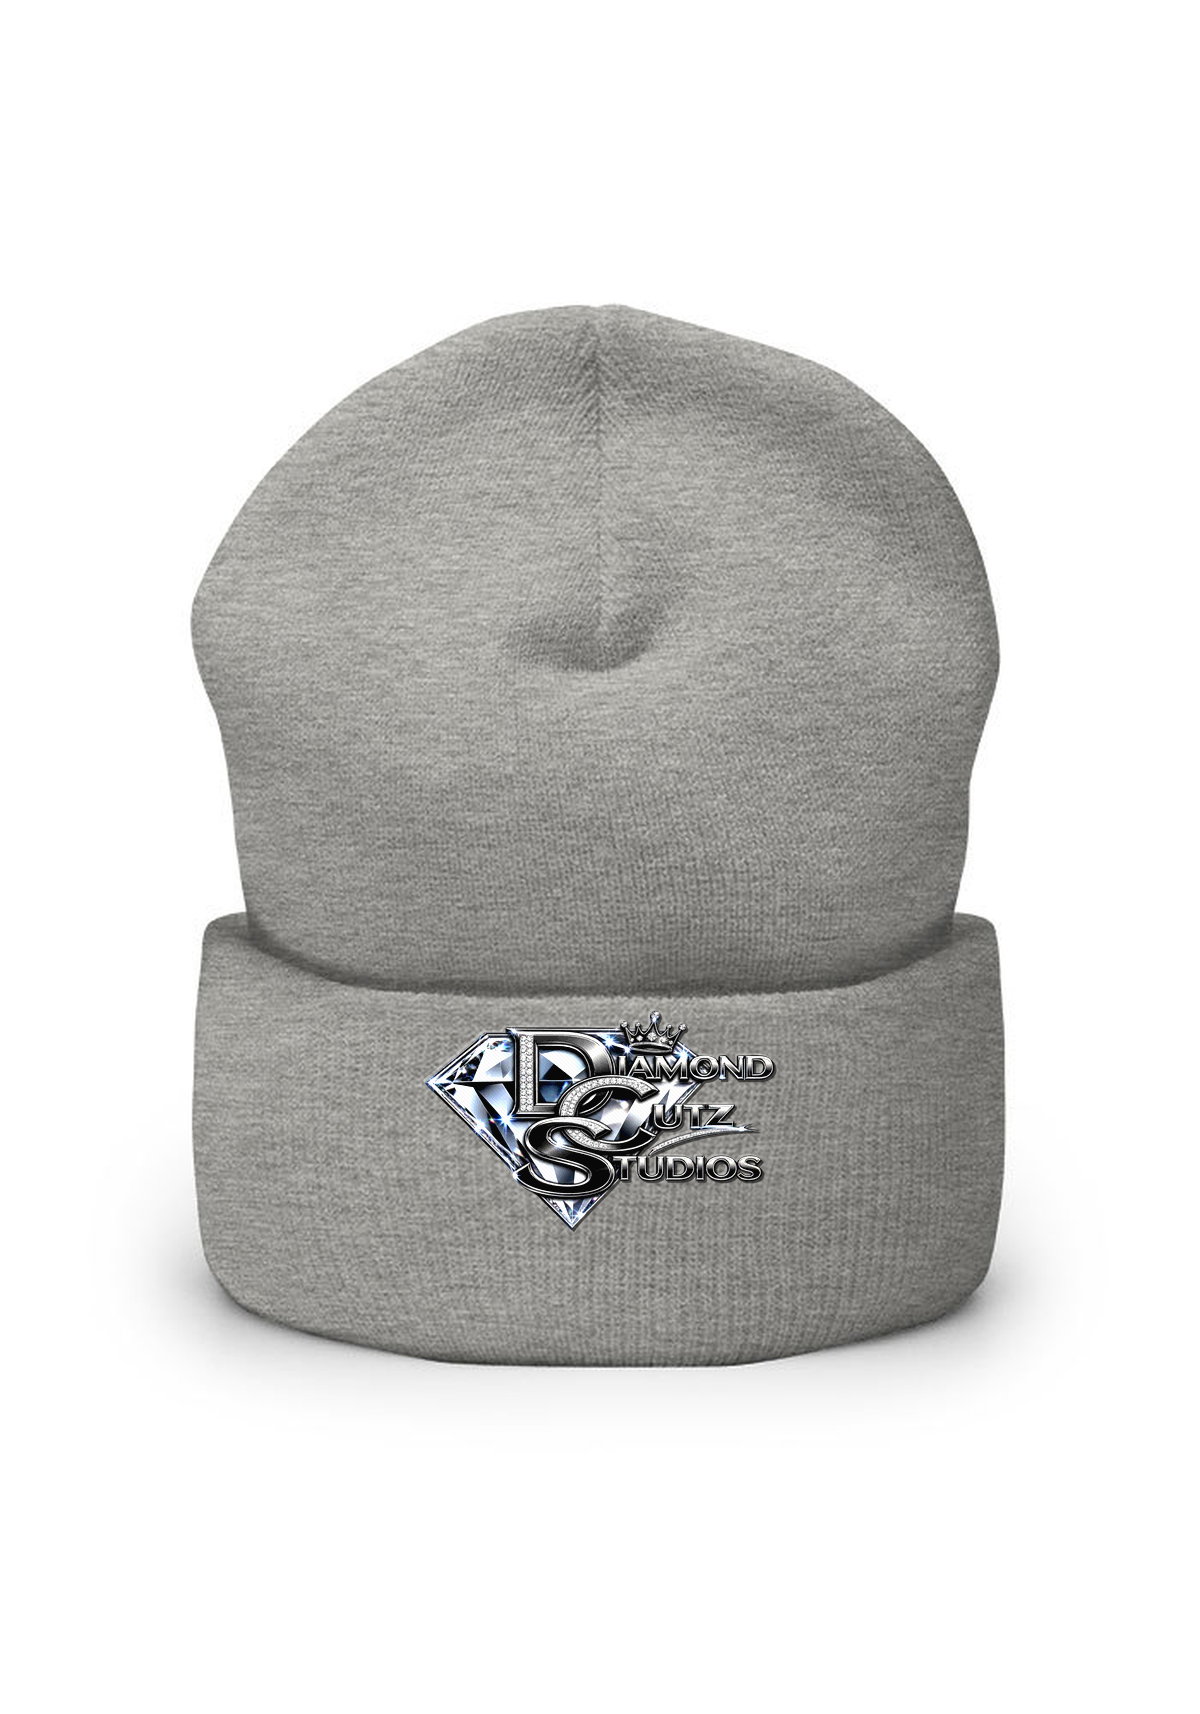
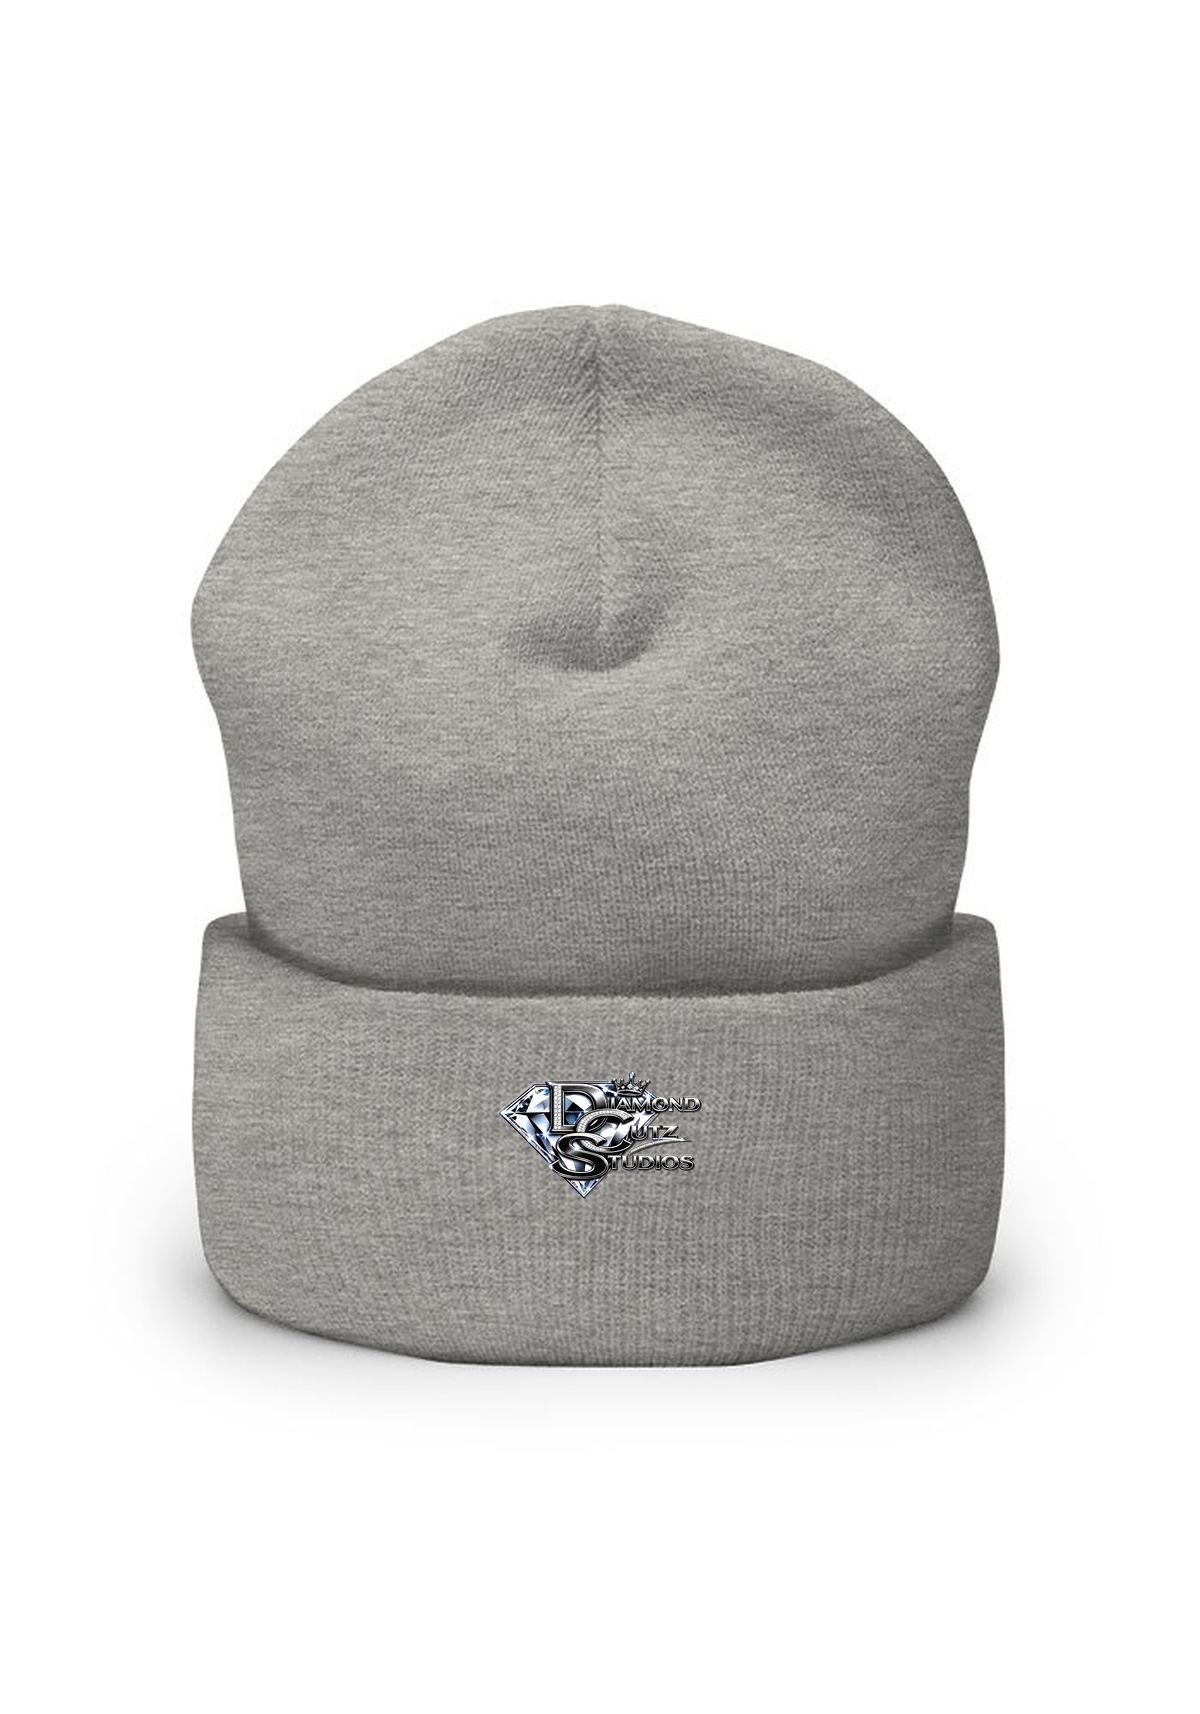
dcz: correct mockup print geometry, 14in front down to 10.5in, beanie mark inside the cuff

Changed region(s): [[0.3392, 0.5875, 0.6475, 0.7112]]

diff --git a/dcz/mockups/index.html b/dcz/mockups/index.html
@@ -90,5 +90,5 @@ A real embroidery run needs the mark redrawn as separate colour stops so the D a
 their shape in thread.
 </div>
 
-<script src="https://hitthe.link/lib/grid-autofix.js" defer></script>
+<!--rev:geo2-->
 </body></html>
